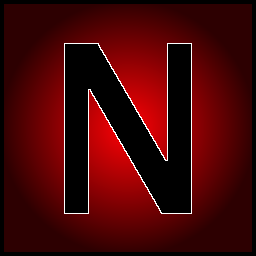
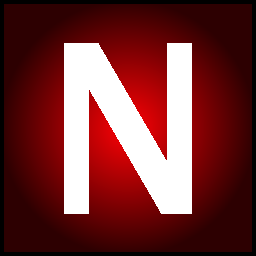
a

Changed region(s): [[0.25, 0.1562, 0.75, 0.8438]]

diff --git a/GamePlayScene.cpp b/GamePlayScene.cpp
@@ -468,6 +468,8 @@ void GamePlayScene::Draw()
 		magnetBlocks[i].Draw(magnetTextureN, magnetTextureS);
 	}
 
+	menuResetSprite->color.z = sin(clock());
+
 	//マップの描画
 	for (int i = 0; i < map_->blockY; i++)
 	{
@@ -512,6 +514,15 @@ void GamePlayScene::Draw()
 	if (isMenu) {
 		menuSprite->Draw();
 		selectBoxSprite->Draw();
+
+		//menuResetSprite->color = {0,0,0,1};
+		//menuTitleSprite->color = { 0,0,0,1 };
+		//menuStageSerectSprite->color = { 0,0,0,1 };
+
+		menuResetSprite->Update();
+		menuTitleSprite->Update();
+		menuStageSerectSprite->Update();
+
 
 		menuResetSprite->Draw();
 		menuTitleSprite->Draw();

diff --git a/MyGame.cpp b/MyGame.cpp
@@ -45,6 +45,6 @@ void MyGame::Draw()
 	//シーン描画処理
 	sceneManager->Draw();
 
-	imguiManager->Draw();
+	//imguiManager->Draw();
 	directX->EndDraw();
 }
